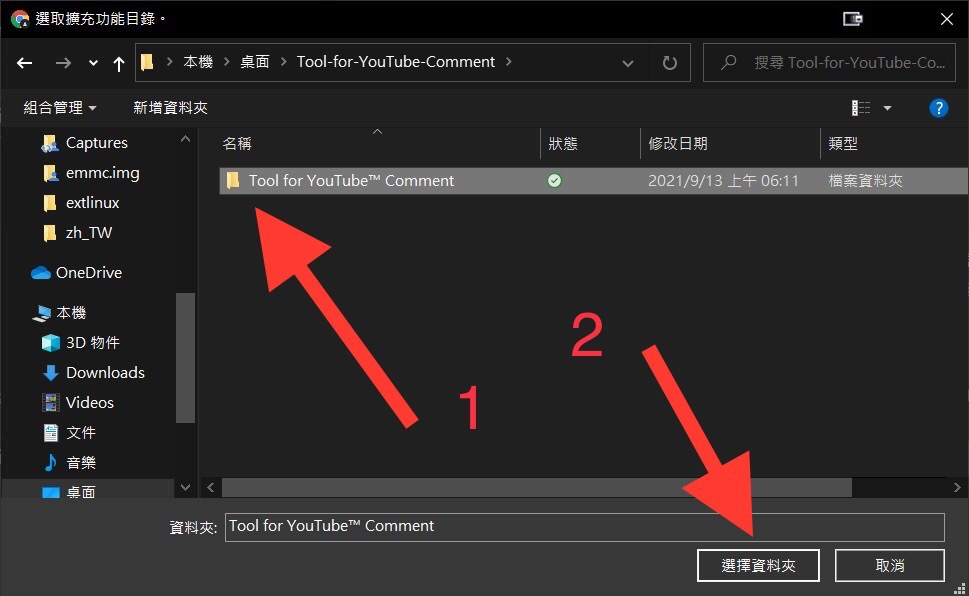
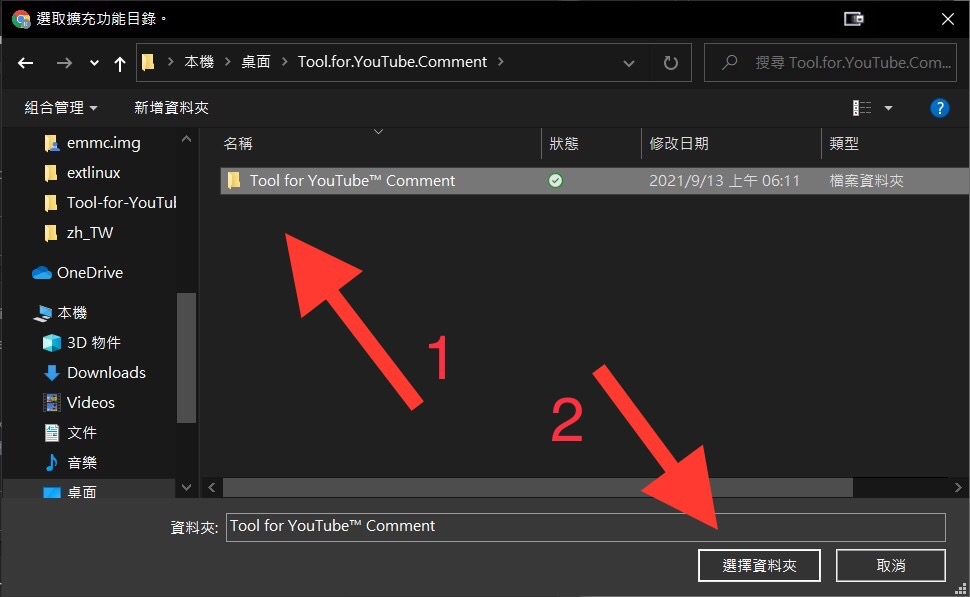
Update tutorial

diff --git a/README.md b/README.md
@@ -18,7 +18,7 @@ Show the video information which is mentioned in the comment on YouTube™
 
 * Using Chrome Extension
 
-    1. Download "Tool for YouTube™ Comment.zip" and unzip it
+    1. Download "Tool.for.YouTube.Comment.zip" from [releases](https://github.com/kevin823lin/Tool-for-YouTube-Comment/releases) and unzip it
 
     1. Go to [chrome://extensions/](chrome://extensions/)
 

diff --git a/README_CN.md b/README_CN.md
@@ -18,7 +18,7 @@
 
 * 使用 Chrome Extension
 
-    1. 下载「Tool for YouTube™ Comment.zip」并解压缩
+    1. 从 [releases](https://github.com/kevin823lin/Tool-for-YouTube-Comment/releases) 下载「Tool.for.YouTube.Comment.zip」并解压缩
 
     1. 前往 [chrome://extensions/](chrome://extensions/)
 

diff --git a/README_TW.md b/README_TW.md
@@ -18,7 +18,7 @@
 
 * 使用 Chrome Extension
 
-    1. 下載「Tool for YouTube™ Comment.zip」並解壓縮
+    1. 從 [releases](https://github.com/kevin823lin/Tool-for-YouTube-Comment/releases) 下載「Tool.for.YouTube.Comment.zip」並解壓縮
 
     1. 前往 [chrome://extensions/](chrome://extensions/)
 
